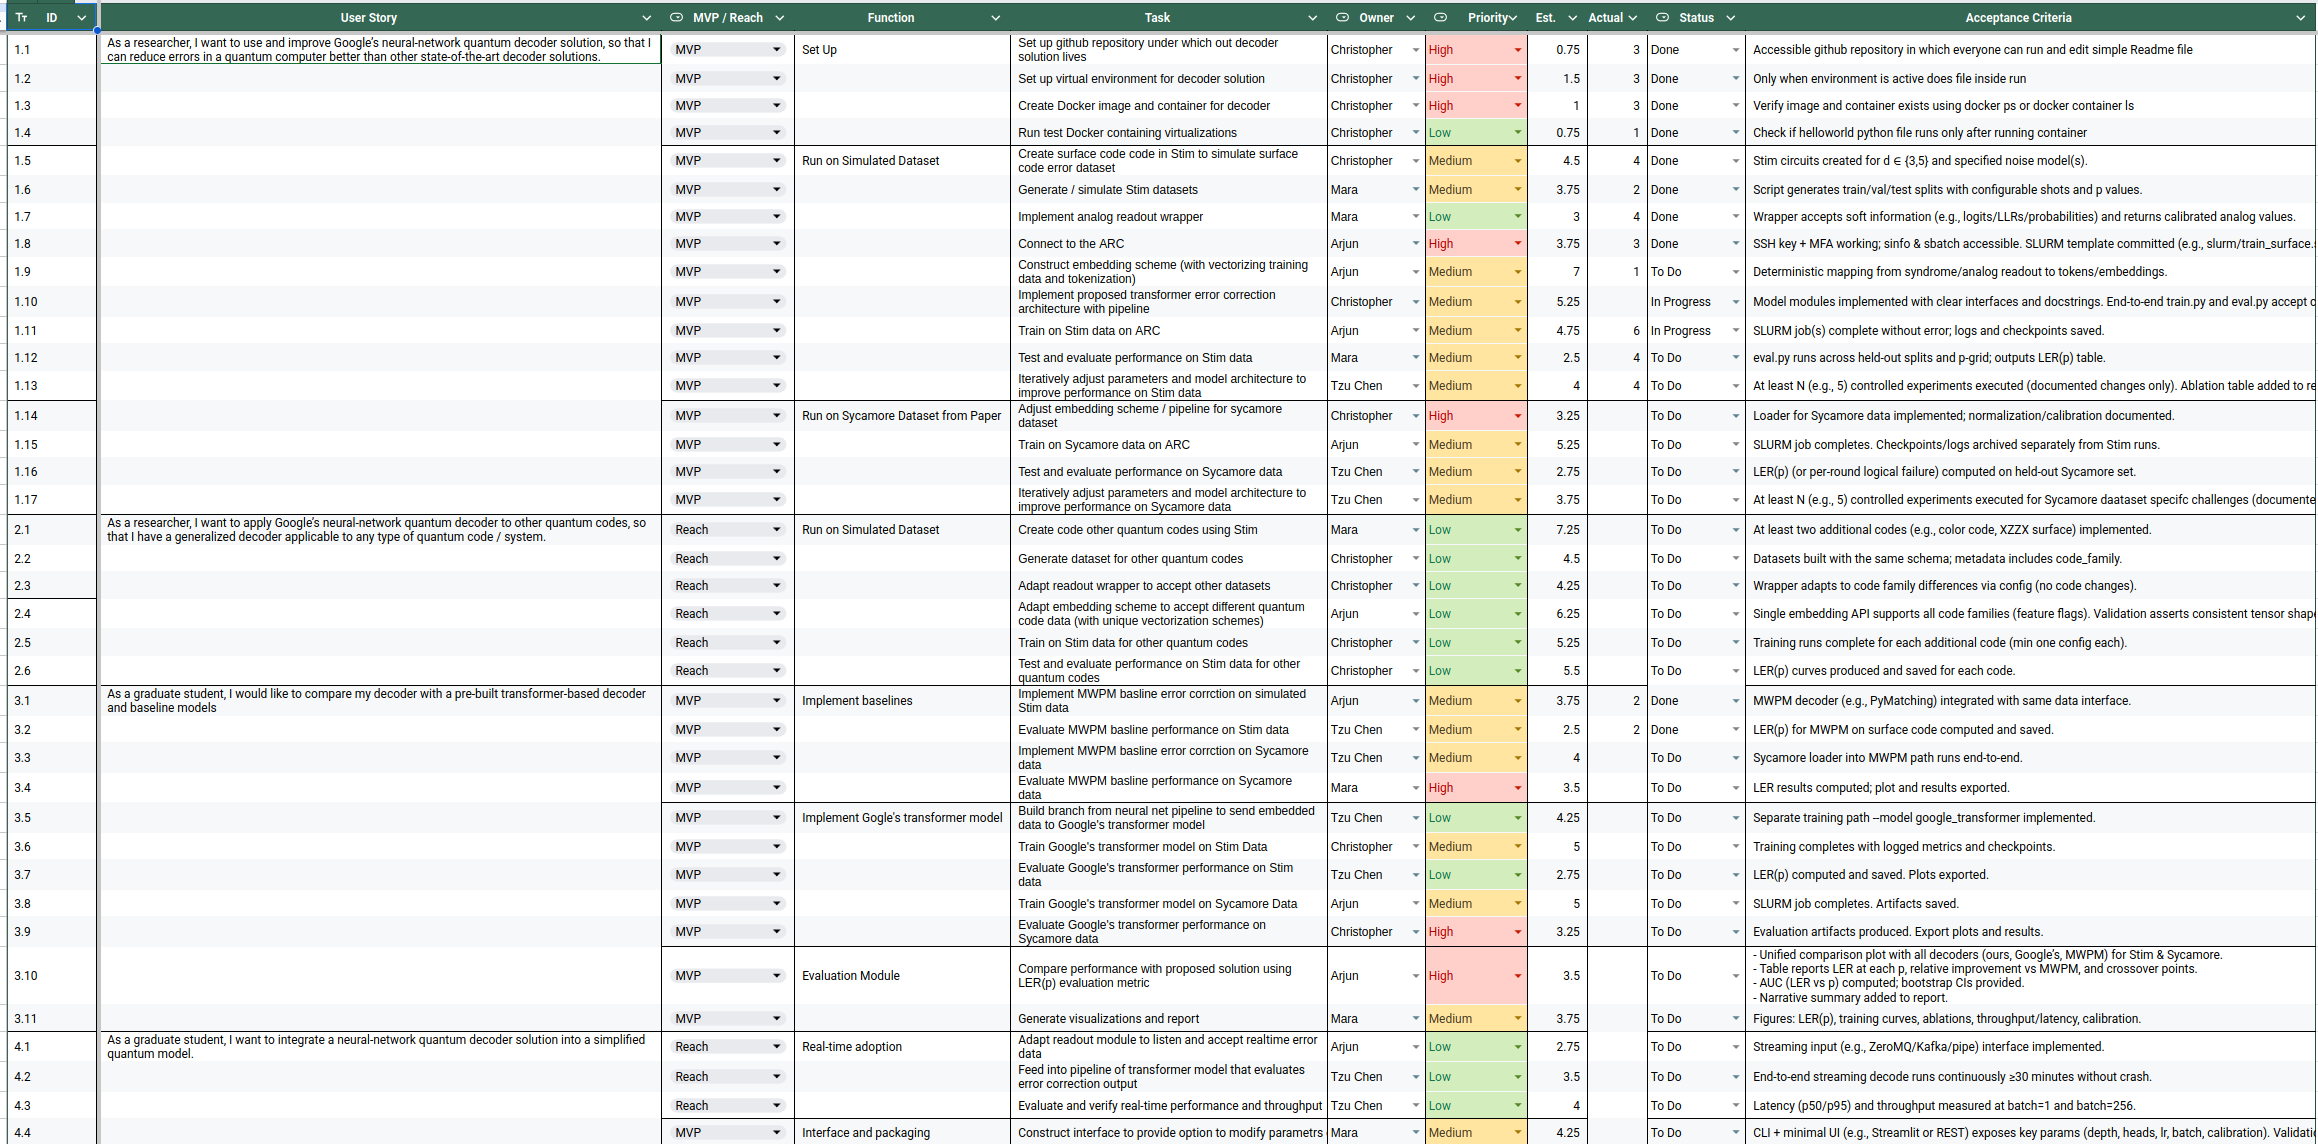
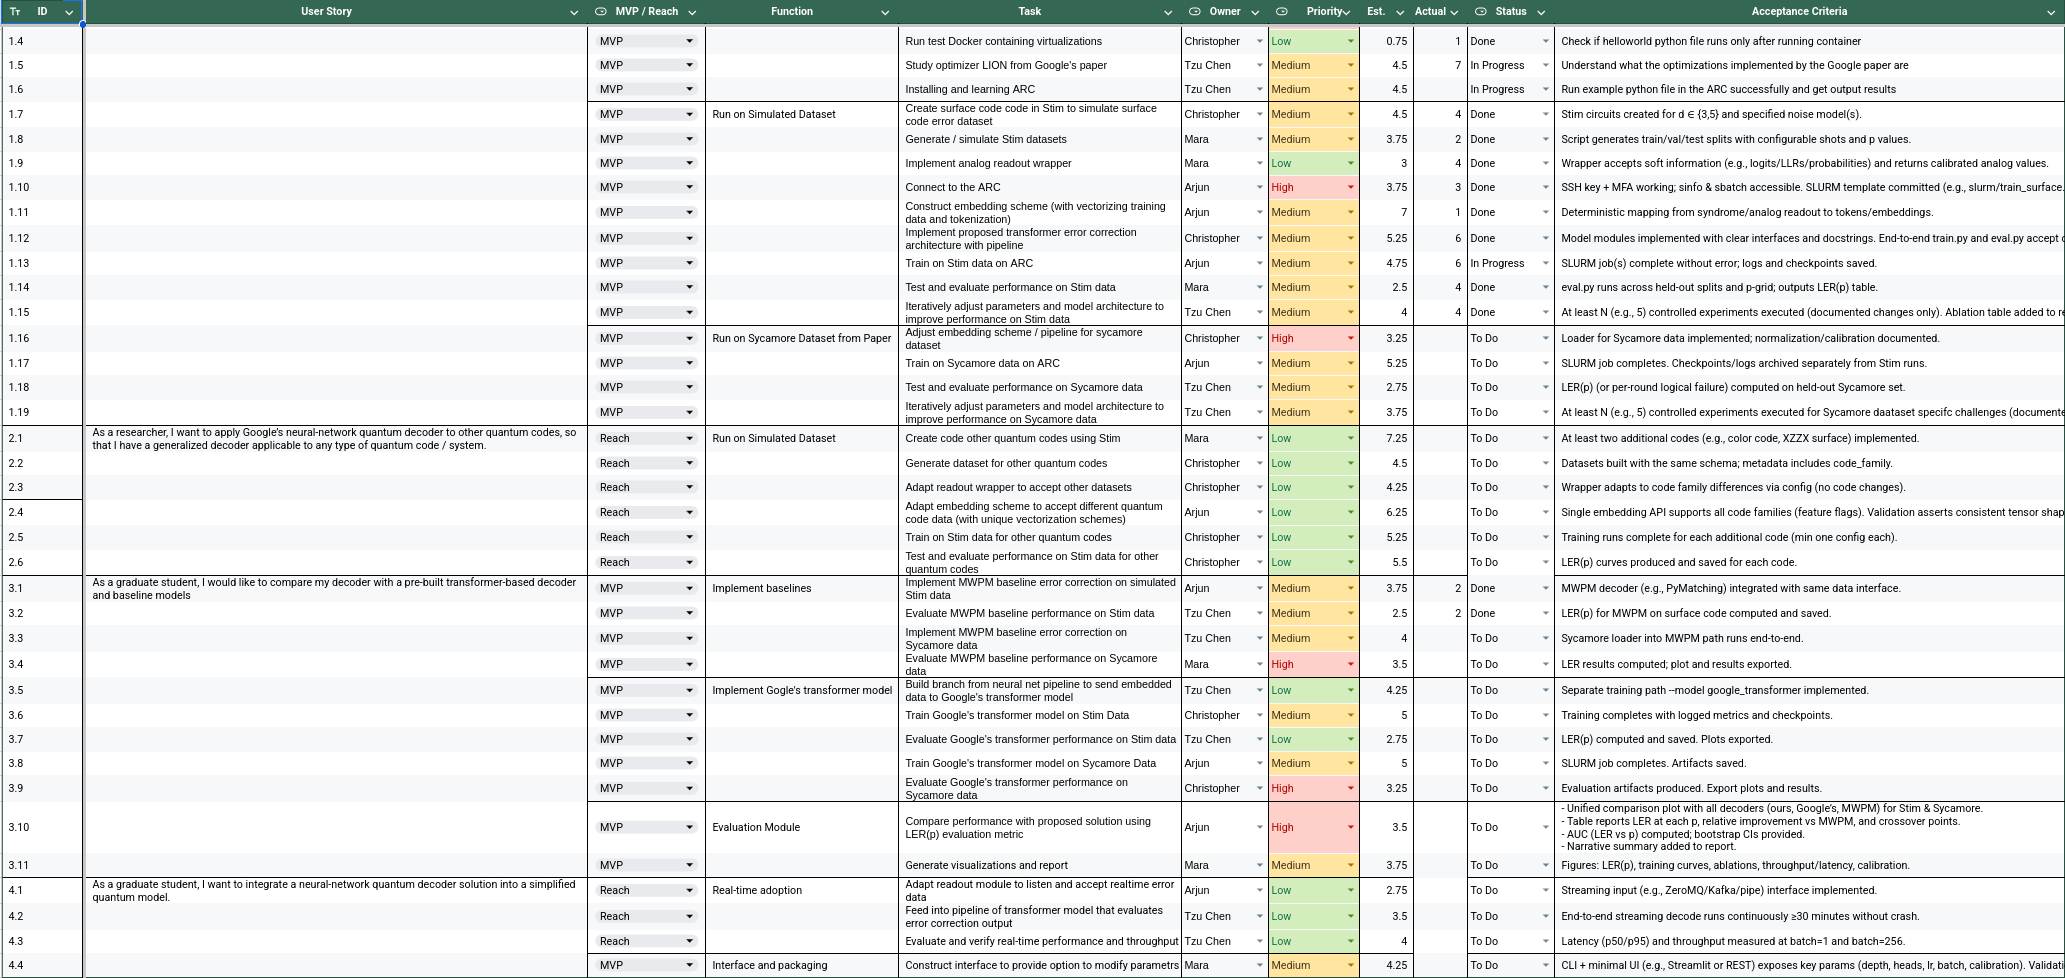
Updates

Changed region(s): [[0.0, 0.0, 1.0, 1.0], [0.3409, 0.092, 0.4029, 0.1534]]

diff --git a/IPD/IPDSprint3.tex b/IPD/IPDSprint3.tex
@@ -1,0 +1,134 @@
+\documentclass[12pt]{article}
+\usepackage{styles/cwilliams-standard}
+
+% Set up document metadata
+\setauthors{Tzu-Chen Chiu, Arjun Sivakumar, Mara Schimmel, Christopher Williams}
+\setheaderauthors{Chiu, Sivakumar, Schimmel, Williams}
+\settitle{Sprint 3 Report}
+\setclass{IPD}
+
+\begin{document}
+
+\maketitlepage
+
+\begin{important}{Sprint 3 Progress}
+    This sprint was not as progressive in terms of getting our sprint tasks done, as we were both 
+    working on completeing Finals, assignments, and projects as well as doing research for our project here. 
+    We were looking into Transformers, embedding schemes for our data, and more understanding of quantum 
+    computers and codes. Thank you for your understanding. 
+\end{important}
+
+\section{Original Sprint 3 Backlog}
+
+\begin{figure}[H]
+    \centering
+    \includegraphics[width=1\textwidth]{images/sprint3_backlog.png}
+    \caption{Spring 3 Backlog}
+\end{figure}
+
+\section{Sprint 3 Backlog - End of Sprint Status}
+
+\begin{figure}[H]
+    \centering
+    \includegraphics[width=1\textwidth]{images/sprint_3_updated.png}
+    \caption{Spring 3 Backlog - Updated}
+    \label{fig:sprint3updated}
+\end{figure}
+
+\section{Project Management Screenshots}
+
+The Sprint backlogs in Google Sheets are being used to manage tasks.
+
+\section{Sprint Retrospective}
+
+\subsection*{Mara}
+
+As this sprint was during the end of the semester and finals week, I was unable to dedicate as much 
+time as I would have preferred to this project and wasn't able to make progress during this sprint. Next 
+sprint I will have a renewed focus and drive to make significant progress on this project.
+
+\subsection*{Chris}
+
+This sprint was particularly lack luster in terms of progress and overall accomplishment because of 
+many deadlines and responsibilites in other classes. I am aware that this is not an acceptable mindset 
+or outcome, especially for working life. The reason I made the decision to tackle my sprint objectives 
+next sprint is in the fact that there is another sprint. The design of this project allows for us to 
+shift goals and deliverables around and the extension of this class track into two semesters presents an 
+opportunity like I had this semester to prioritize shorter term requirements and to look long term at what 
+I will have time to accomplish next semester.
+
+\subsection*{Tzu-Chen}
+
+We all recently gained access to ARC with Dr. Cameron’s assistance, 
+and we truly appreciate the support. Our team is currently 
+learning how to connect and use ARC effectively. There are many training 
+videos we are working through, including how to connect to the university 
+VPN, log in via SSH, and choose appropriate compute nodes so that we do 
+not overwhelm shared resources. We also appreciate Arjun for teaching 
+us the basics of using ARC.
+
+We have been developing a Transformer model based on Google’s design, 
+since the one we built is not working at all. I spent substantial time 
+studying how to implement the Lion optimizer, and now that I can run jobs 
+on ARC, I am able to obtain logical error rate (LER) results. We hope 
+to achieve improved performance in the next sprint.
+
+
+\subsection*{Arjun}
+
+During this sprint, we successfully integrated the major components developed across previous iterations, 
+including the MWPM decoder, Stim data simulation, the new embedding scheme, and our transformer model, 
+into a unified end-to-end pipeline. This system now runs both MWPM and transformer-based decoding on 
+simulated Stim datasets, applies the analog-conversion stage, computes logical error rates, and 
+generates performance graphs across varying physical error rates and code distances. We deployed and 
+executed the full workflow on the ARC cluster, producing the finalized results for the team. The 
+primary impediments involved merging independently developed modules into one cohesive pipeline and 
+coordinating with teammates to understand how their code sections were intended to function. 
+These were addressed through regular communication and reviewing each member’s demos. An 
+additional challenge was that Arjun was initially the only team member with ARC access, 
+requiring extra effort to run jobs and later help others onboard. From an ethical standpoint, 
+we ensured proper attribution when incorporating teammates’ code into the integrated pipeline. 
+Overall, the sprint went well, though future work could benefit from earlier cross-module 
+synchronization and shared access to compute resources.
+
+
+\section{Product Backlog (Updated)}
+
+\begin{figure}[H]
+    \centering
+    \includegraphics[width=1\textwidth]{images/sprint3_updated_product_backlog.png}
+    \caption{Updated Product Backlog}
+\end{figure}
+
+\begin{aside}{Picture Quality}
+    We understand that this image is hard to read, but as Figure \ref{fig:sprint3updated} shows, tasks 
+    1.11 was worked on.
+\end{aside}
+
+\section{Issue Tracking}
+
+\begin{table}[H]
+\centering
+\begin{tabular}{@{}llll@{}}
+\toprule
+\textbf{Issue} & \textbf{Description} & \textbf{Status} & \textbf{Date Completed} \\ \midrule
+ARC Access & Getting every member access to the ARC & 12/9/2025 \\
+Train on Stim Data & Getting reasonable results in training & Ongoing \\
+\end{tabular}
+\caption{Issue Tracking Summary}
+\end{table}
+
+\section{Sprint 4 Backlog}
+
+\begin{figure}[H]
+    \centering
+    \includegraphics[width=1\textwidth]{images/sprint_4_backlog.png}
+    \caption{Spring 4 Backlog}
+\end{figure}
+
+\section{Member Videos}
+
+Members that did not have progress for this week do not have demo videos to submit. Otherwise, 
+videos will be posted on Canvas in the My Media section.
+
+\end{document}

diff --git a/IPDFinalProductSubmission.tex b/IPDFinalProductSubmission.tex
@@ -1,0 +1,14 @@
+\documentclass[12pt]{article}
+\usepackage{styles/cwilliams-standard}
+
+% Set up document metadata
+\setauthors{Tzu-Chen Chiu, Arjun Sivakumar, Mara Schimmel, Christopher Williams}
+\setheaderauthors{Chiu, Sivakumar, Schimmel, Williams}
+\settitle{Final Product Submission}
+\setclass{IPD}
+
+\begin{document}
+
+\maketitlepage
+
+\end{document}
